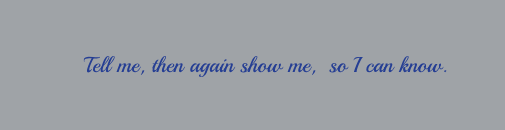
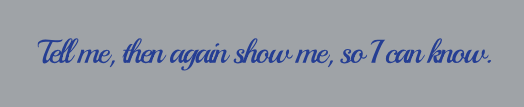
adjusted Hurston styles and object

Changed region(s): [[0.0594, 0.3364, 0.9505, 0.6729]]

diff --git a/Hurston/hurston.html b/Hurston/hurston.html
@@ -32,8 +32,8 @@
             </div>
 
             <div class="col-sm-8">
-                <h1 class="name" id="name"></h1>
-                <p id="quote"></p>
+                <h1 id="name"></h1>
+                <p id="quote" class="center"></p>
             </div>
         </div>
     </div>
@@ -93,14 +93,14 @@
         lastName: "Hurston",
         image: '<img src="ZoraPainting.png" alt="picture of Zora Hurston" class="img-fluid"/>', 
         imageCitation: "Eye Of The Watched Divine / Zora Neale Hurston is a painting by Martel Chapman",
-        quote: '<img class="quote" alt="si se puede" src="quote1.png" class="img-fluid"/>',
+        quote: '<img src="quote.png" class="quote" alt="tell me, then again show me, so I can know" alt="img-responsive" class="center" class="img-fluid" />',
         description: "Anthropologist, Activist, Civil Rights Activist, Author",
         born: "January 7, 1891 - January 28, 1960",
         awardsHonors: "Bethune-Cookman College Award for Education and Human Relations and the English Department remains dedicated to preserving her cultural legacy.",
         about: "In 1925 as the Harlem Renaissance gained momentum, Zora Neale Hurston headed to New York City. By the time of its height in the 1930s,Hurston was a preeminent Black female writer in the United States. It’s said that her apartment was a popular spot for social gatherings with the well-known artists of the time like Countee Cullen and Langston Hughes. Of Hurston’s more than 50 published novels, short stories, plays and essays, she wrote her most famous work Their Eyes Were Watching Godin 1937. Unlike the style of contemporaries Richard Wright and Ralph Ellison, Hurston did not write explicitly about Black people in the context of white America. <br> <br> She focused on the culture and traditions of African Americans through the poetry of their speech. Despite her earlier literary success, Hurston would suffer later in her career. Having difficulty getting published, she died poor and alone. Years later, Alice Walker would help revive interest in Hurston’s work with her essay, 'In Search of Zora Neale Hurston,' published in Ms. magazine in 1975. This essay, alongside her edits of notable works like “I Love Myself When I am Laughing and Then Again When I am Looking Mean and Impressive,” brought Hurston to the attention of a new generation of readers.",
         foundation: 'To find out more about Zora Neale Hurston, please visit the <a target="_blank" href="http://www.hurstonwright.org/">Hurston/Wright Foundation</a> which honors "the best in Black literature in the United States and around the globe."',
         picture: '<a href="https://pixels.com/featured/eye-of-the-watched-divine-zora-neale-hurston-martel-chapman.html" target=_blank>https://pixels.com/featured/eye-of-the-watched-divine-zora-neale-hurston-martel-chapman.html</a>',
-        information: ['<a href="https://en.wikipedia.org/wiki/Zora_Neale_Hurston" target=_blank> https://en.wikipedia.org/wiki/Zora_Neale_Hurston</a>',
+        information: ['<a href="https://en.wikipedia.org/wiki/Zora_Neale_Hurston" target=_blank> https://en.wikipedia.org/wiki/Zora_Neale_Hurston</a>', 
         '<a href="https://www.zoranealehurston.com/" target=_blank> https://www.zoranealehurston.com/</a>'],
 
         fullName : function () {
@@ -131,10 +131,10 @@
             return this.foundation; 
         },
         pictures : function () { 
-        return "Pictures" + "<br>" + " " + "<br>" + this.picture;
+            return "Pictures" + "<br>" + " " + "<br>" + this.picture;
         },
         informations : function () { 
-            return "Information" + "<br>" + " " + "<br>" + this.information + " ";
+            return "Information" + " <br>" + " " + this.information[0] + " <br>" + this.information[1];
         }
     };
     

diff --git a/ComingSoon.html b/ComingSoon.html
@@ -4,7 +4,7 @@
   <meta charset="utf-8">
   <meta name="viewport" content="width=device-width, initial-scale=1">
   <link rel="stylesheet" href="https://cdnjs.cloudflare.com/ajax/libs/font-awesome/4.7.0/css/font-awesome.min.css">
-  <link rel="icon" type="image/png" href="coming.jpg" sizes="32x32"/>
+  <link rel="icon" type="image/png" href="staircase.jpg" sizes="32x32"/>
   <link href="https://fonts.googleapis.com/css?family=News+Cycle|Playfair+Display|Rubik" rel="stylesheet">
   <link href="https://fonts.googleapis.com/css?family=Lato|Libre+Baskerville|Merriweather|Merriweather+Sans|Source+Sans+Pro"
   rel="stylesheet">

diff --git a/Hurston/hurston.css b/Hurston/hurston.css
@@ -14,6 +14,7 @@ main {
 
 img.quote {
     padding: 50px 100px 100px 170px;
+    width:100%;
 }
 
 p {
